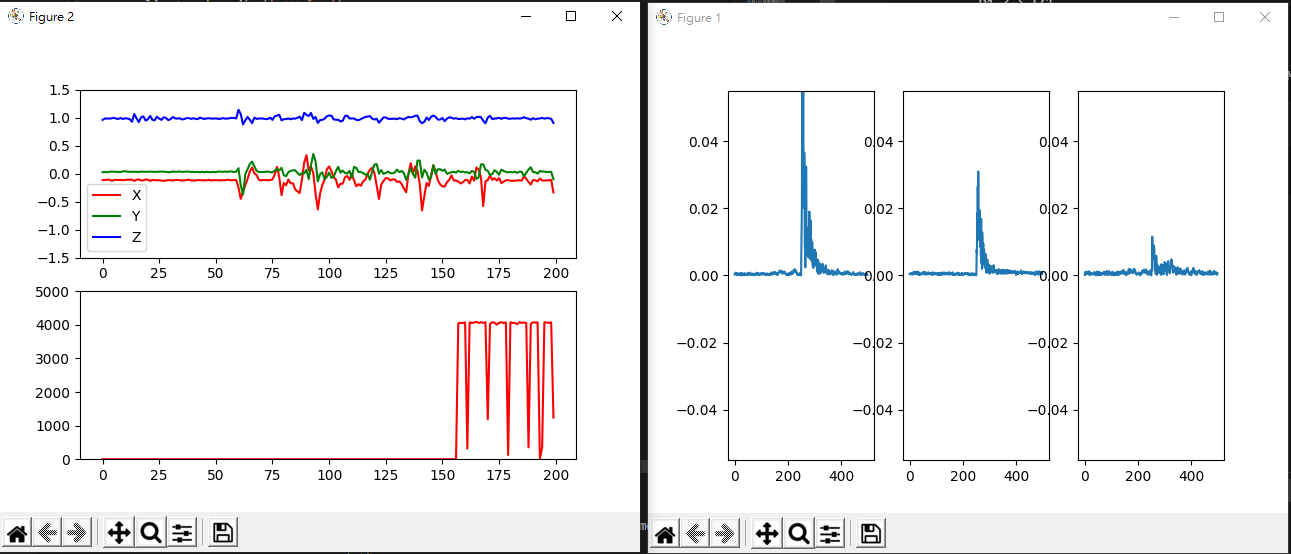
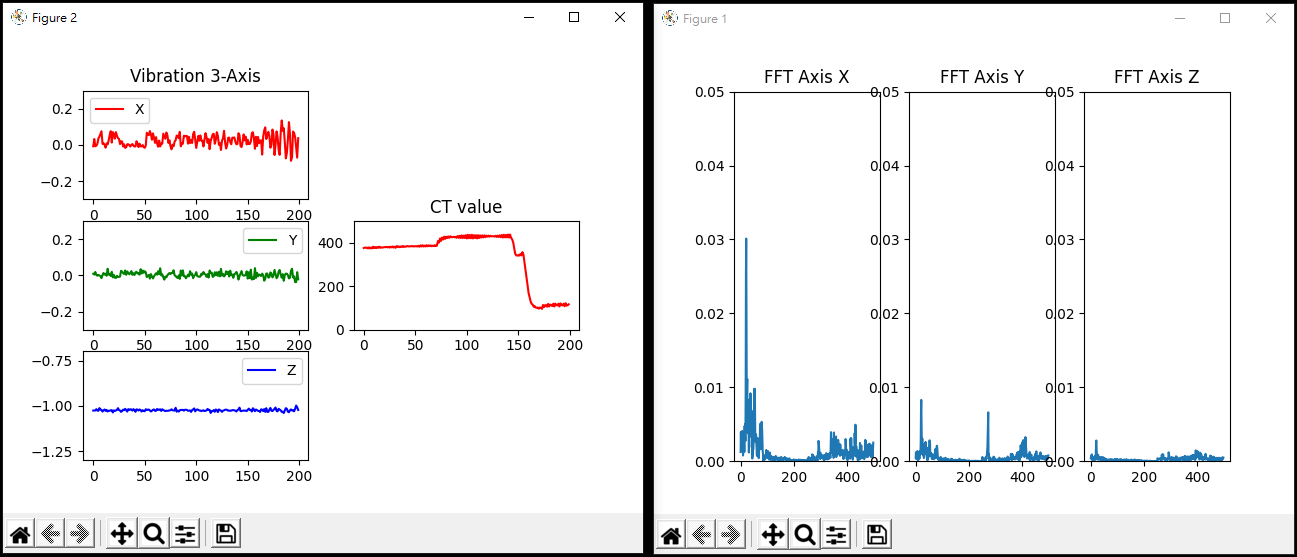
0309

diff --git a/LiveGragh.py b/LiveGragh.py
@@ -8,7 +8,7 @@ import matplotlib.animation as ani
 import paho.mqtt.publish as publish
 from scipy.fftpack import fft,fftshift
 
-THRESHOLD = -1
+THRESHOLD = 20
 POWERON = False
 
 
@@ -23,6 +23,7 @@ def on_message(client, userdata, msg):
         ctValue = int(msg.payload.decode('utf-8'))
         POWERON = True if ctValue>THRESHOLD else False
         ctDeque.append(ctValue)
+        return
 
     elif msg.topic == 'vibration':
         try:
@@ -37,24 +38,43 @@ def on_message(client, userdata, msg):
 
         except:
             pass
-
-        plotDeque.append([0,0,0])
+        
+    #ctDeque.append(0)
+    plotDeque.append([0,0,-1])
 
 
 class mqttPlot():
     def __init__(self):
         self.fig = plt.figure()
-        self.ax1 = self.fig.add_subplot(2,1,1)
-        xs  = list(range(200)) 
-        self.lineX, = self.ax1.plot(xs,[0]*200,'r')
-        self.lineY, = self.ax1.plot(xs,[0]*200,'g')
-        self.lineZ, = self.ax1.plot(xs,[0]*200,'b')
-        self.ax1.legend([self.lineX,self.lineY,self.lineZ],['X','Y','Z'])
-        self.ax1.set_ylim([-1.5,1.5])
-        self.ax2 = self.fig.add_subplot(2,1,2)
-        self.ax2.set_ylim([0,5000])
-        self.lineCT, = self.ax2.plot(xs,[0]*200,'r')
+        self.xs  = list(range(200)) 
+        self.xPlot()
+        self.yPlot()
+        self.zPlot()
+        self.ax2 = self.fig.add_subplot(3,2,4)
+        self.ax2.set_title("CT value")
+        self.ax2.set_ylim([0,500])
+        self.lineCT, = self.ax2.plot(self.xs,[0]*200,'b')
+        self.ax2.plot(self.xs,[30]*200,'r') # Threshold
         self.ani = ani.FuncAnimation(self.fig,self.mqttAnimate,interval=100)
+    
+    def xPlot(self):
+        self.axisX = self.fig.add_subplot(3,2,1)
+        self.axisX.set_title("Vibration 3-Axis")
+        self.axisX.set_ylim([-0.3,0.3])
+        self.lineX, = self.axisX.plot(self.xs,[0]*200,'r')
+        self.axisX.legend(handles=[self.lineX],labels='X')
+    
+    def yPlot(self):
+        self.axisY = self.fig.add_subplot(3,2,3)
+        self.axisY.set_ylim([-0.3,0.3])
+        self.lineY, = self.axisY.plot(self.xs,[0]*200,'g')
+        self.axisY.legend(handles=[self.lineY],labels='Y')
+    
+    def zPlot(self):
+        self.axisZ = self.fig.add_subplot(3,2,5)
+        self.axisZ.set_ylim([-1.3,-0.7])
+        self.lineZ, = self.axisZ.plot(self.xs,[0]*200,'b')
+        self.axisZ.legend(handles=[self.lineZ],labels='Z')
     
     def mqttAnimate(self,i):
         self.lineX.set_ydata([vib[0] for vib in list(plotDeque)])
@@ -69,30 +89,37 @@ class fftPlot():
         self.ax1 = self.fig.add_subplot(1,3,1)
         self.ax2 = self.fig.add_subplot(1,3,2)
         self.ax3 = self.fig.add_subplot(1,3,3)
+        self.ax1.set_title("FFT Axis X")
+        self.ax2.set_title("FFT Axis Y")
+        self.ax3.set_title("FFT Axis Z")
         self.fftPlotX, = self.ax1.plot([0]*500)
         self.fftPlotY, = self.ax2.plot([0]*500)
         self.fftPlotZ, = self.ax3.plot([0]*500)
+        self.ax1.set_ylim([0,0.05])
+        self.ax2.set_ylim([0,0.05])
+        self.ax3.set_ylim([0,0.05])
         self.ani = ani.FuncAnimation(self.fig,self.fftAnimate,interval=900)
 
     def fftAnimate(self,i):
         fftPlot = [self.fftPlotX, self.fftPlotY, self.fftPlotZ]
-        for i in range(3):
-            if POWERON:
-                vib = [vib[i] for vib in list(vibrationDeque)]
-                try:fftData = fft(vib)
-                except:pass
-                myfft   = abs(fftData)*2 / 1000   # length of vib1000Data 
-                myfft2  = myfft[:500]             # 500 -> length of vib1000Data * 0.5
-                yData = fftshift(np.abs(myfft2))
-                yData[250] = 0 
-                fftPlot[i].set_ydata(yData)
-            else:
-                fftPlot[i].set_ydata([0]*500)
+        try:
+            for i in range(3):
+                if POWERON:
+                    vib = [vib[i] for vib in list(vibrationDeque)]
+                    fftData = fft(vib)
+                    myfft   = abs(fftData)*2 / 1000   # length of vib1000Data 
+                    myfft2  = myfft[:500]             # 500 -> length of vib1000Data * 0.5
+                    yData = fftshift(np.abs(myfft2))
+                    yData[250] = 0 
+                    fftPlot[i].set_ydata(yData)
+                else:
+                    fftPlot[i].set_ydata([0]*500)
+        except:pass
 
 
 if __name__ == "__main__":
     ctDeque        = deque([0]*200, maxlen=200)
-    plotDeque      = deque([[0,0,0]]*200, maxlen=200)
+    plotDeque      = deque([[0,0,-1]]*200, maxlen=200)
     vibrationDeque = deque([[0,0,0]]*1000, maxlen=1000)
     
     fftPlot = fftPlot()

diff --git a/README.md b/README.md
@@ -1,5 +1,5 @@
 # Status plot
-Show vibration data and fft plot when the CT value over the threshold.
+Plot vibration data and fft plot when the CT value over the threshold.
 ## Devices
 ```
 * CT data publisher
